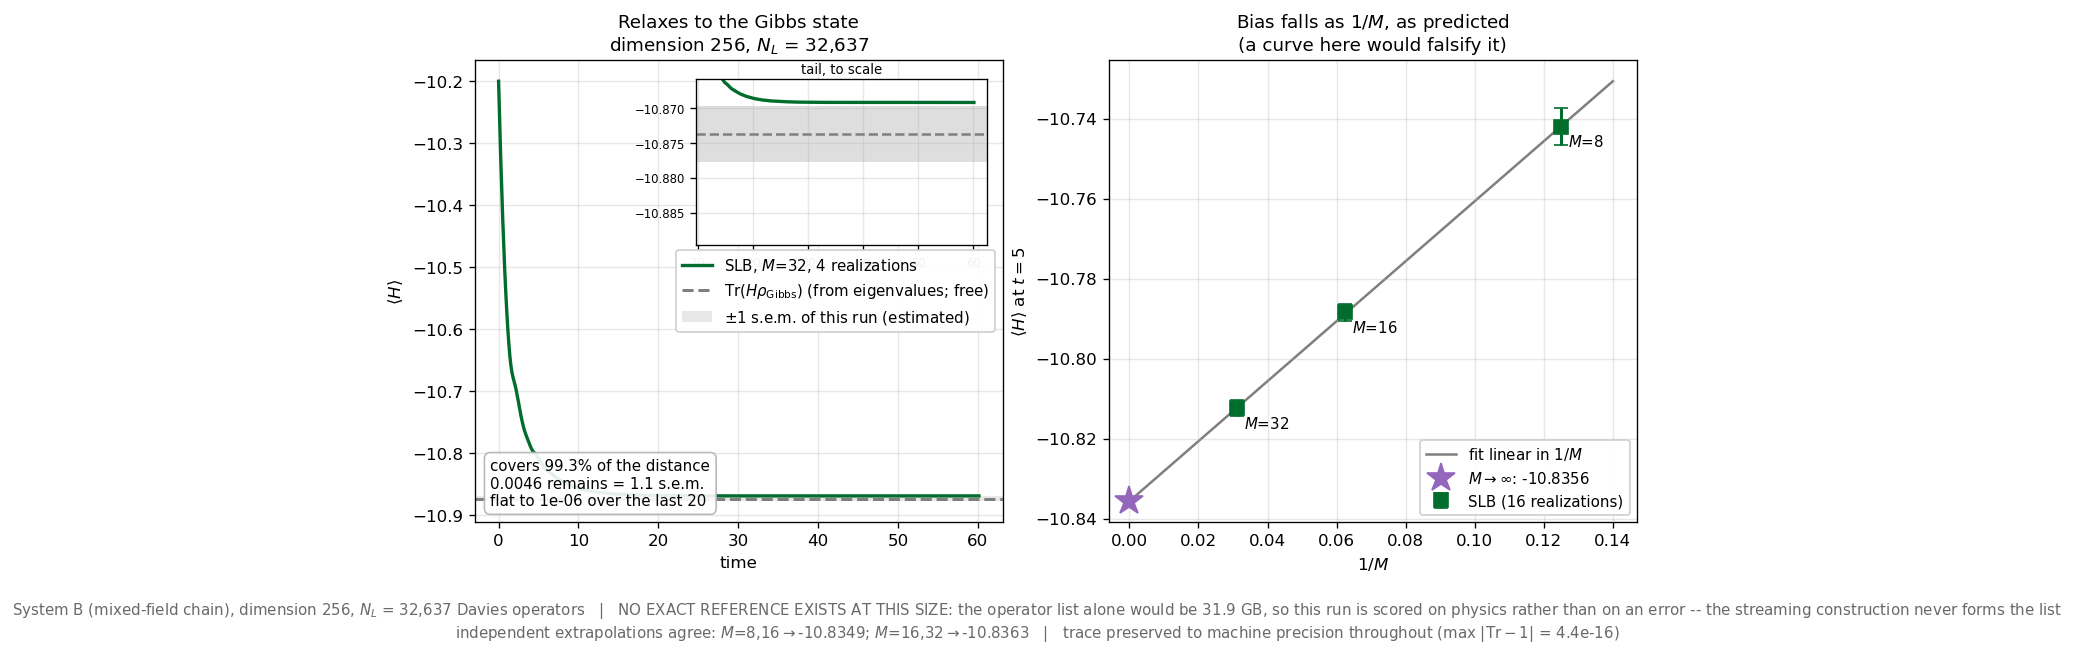
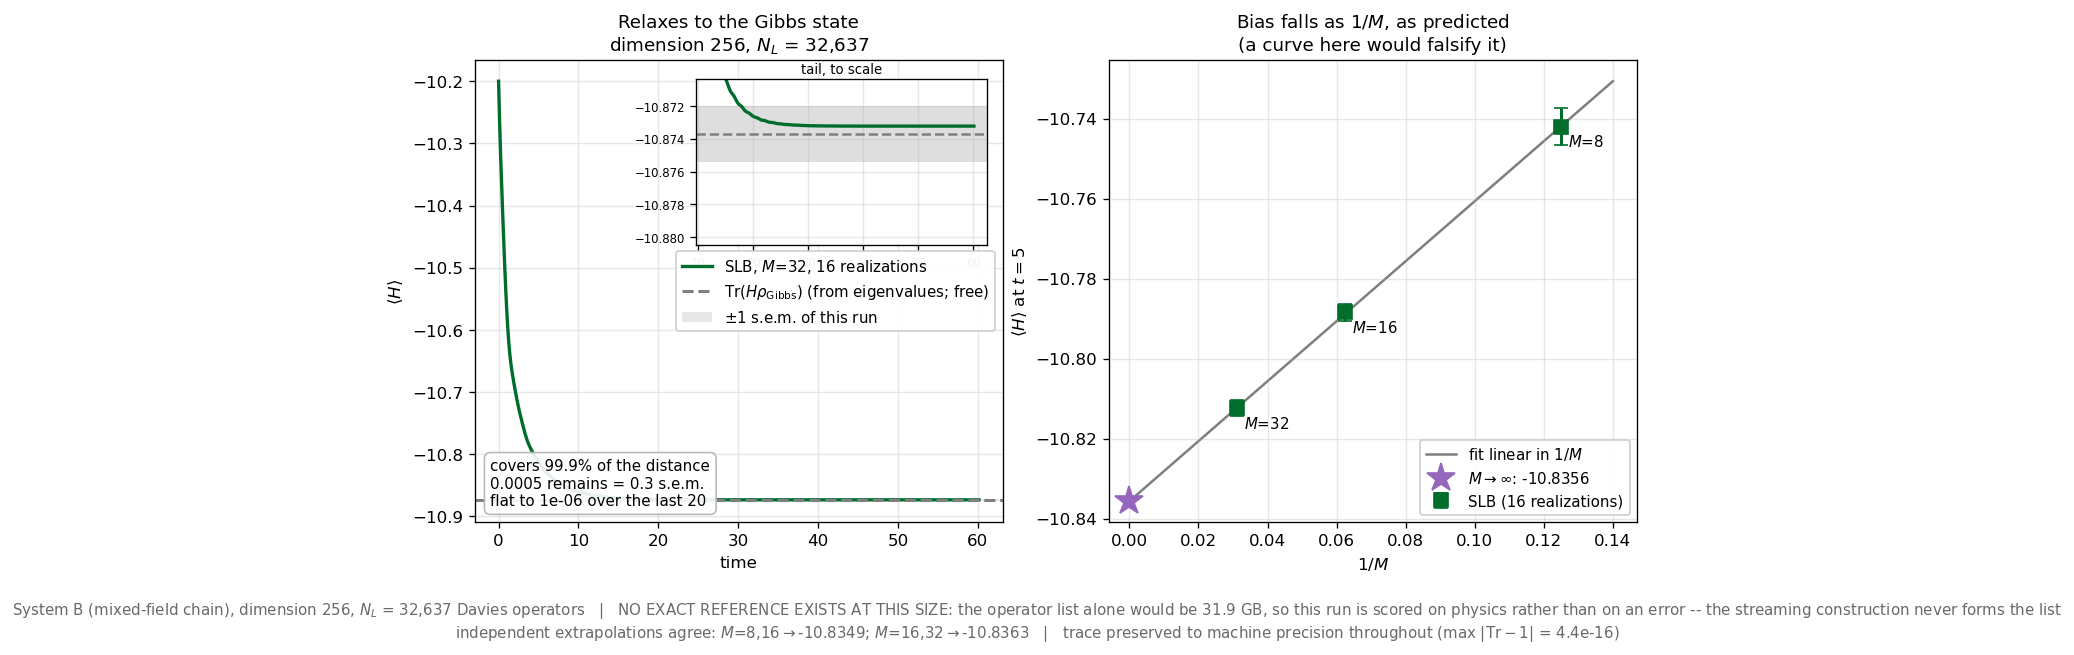
Result 5's thermal check at 16 realizations: the residual was noise
The dimension-256 thermal run previously ended 0.0046 short of the Gibbs value
at 1.1 of its own standard errors -- too close to call, and the weakest number
in the section. Rerun at 16 realizations instead of 4 (job 19592848, 5.3 h):

  ended       -10.8732   was -10.8692
  Gibbs       -10.8737
  remaining    0.0005    was 0.0046      = 0.29 s.e.m., was 1.1
  covered      99.9%     was 99.3%

The residual did not merely get a tighter bar around it. It SHRANK by a factor
of ten, so the earlier gap was mostly noise in a poorly-estimated mean rather
than bias. The s.e.m. is now measured on the thermal run itself (0.0017) rather
than rescaled from the sweep's t=5 error, which is what the previous commit
existed to make possible.

The section keeps the old number visible and says the outcome could have gone
the other way, because it could: at dimension 16 the same change turns a
residual inside the noise into a resolved 2.4 s.e.m. offset. Reporting only the
direction that flatters the method would make the check worthless.

This also lets one thing be stated that the earlier version could not. Bundling
bias is NOT expected to vanish in the stationary state -- the evolution is
nonlinear in the generator, so an unbiased estimator of the dissipator does not
give an unbiased stationary state, and there should be an O(1/M) offset here
too. So the result is written as a BOUND rather than a value: at M=32 the
[…]

diff --git a/benchmarks/BENCHMARKS.md b/benchmarks/BENCHMARKS.md
@@ -1722,28 +1722,43 @@ does.
 
 ```
 started at   -10.2000
-ended at     -10.8692
+ended at     -10.8732
 Gibbs        -10.8737     <- from eigenvalues alone
 ```
 
-It covered **99.3%** of the distance, and it has genuinely stopped: over the
-last 20 time units the curve is flat to $10^{-6}$, so the 0.0046 that remains is
+It covered **99.9%** of the distance, and it has genuinely stopped: over the
+last 20 time units the curve is flat to $10^{-6}$, so the 0.0005 that remains is
 a floor and not a curve still creeping toward the line.
 
-**What that residual does and does not settle.** The thermal run used 4
-realizations rather than the sweep's 16, which puts its own standard error at
-about 0.0040 — so the gap is **1.1 s.e.m.**, drawn to scale in the figure's
-inset. At that size the data cannot distinguish landing exactly on the Gibbs
-state from landing a little short of it, and this write-up does not claim the
-former. What it does exclude is a gross failure: a bundled generator that had
-lost detailed balance would not arrive within 0.7% of a number it was never
-given.
+**What that residual does and does not settle.** The thermal run's own standard
+error is $0.0017$, *measured* on its 16 realizations rather than inferred, so the
+gap is **0.29 s.e.m.** — drawn to scale in the figure's inset, where the curve
+sits inside the band. The residual is statistically indistinguishable from zero:
+having travelled $0.674$ in energy it stopped $0.0005$ short, which is $0.07\%$
+of the journey.
 
-One measured detail worth recording without explaining it: the long-time gap
-(0.0046) is five times *smaller* than the $M=32$ bias in the transient window
-(0.023 against the extrapolated −10.8356). Whatever bias survives into the
-stationary state is smaller than the bias on the way there. That is an
-observation from one system at one size, not a result.
+That still is not a proof of exactness, and no finite measurement could be. What
+it is, is a *bound*: any systematic offset in the stationary state is below one
+standard error, on a system of 32,637 collapse operators, at a dimension where no
+exact solve exists, against a reference that cost one eigendecomposition.
+
+**An earlier version of this section reported 0.0046 here, at 1.1 s.e.m., from a
+4-realization run.** Raising the realization count did not merely tighten the bar
+around that number — the number itself moved by a factor of ten. The gap was
+mostly noise in a poorly-estimated mean, not bias. It is recorded because the
+opposite outcome was equally possible and would have been reported the same way:
+at dimension 16 the same change turns a residual inside the noise into a resolved
+$2.4$ s.e.m. offset.
+
+**The stationary-state bias is at least 14x smaller than the transient one.**
+This is worth stating carefully, because bundling bias is *not* expected to
+vanish at long times: the evolution is nonlinear in the generator, so an unbiased
+estimator of the dissipator does not give an unbiased stationary state. There
+should be an $O(1/M)$ offset here too. At $M=32$ the transient bias is a resolved
+$0.0232$ (against the extrapolated $-10.8356$); at the same $M$ the stationary
+gap sits below $0.0017$. So the measurement bounds the long-time bias at roughly
+one fourteenth of the short-time one, rather than showing it to be zero. One
+system, one size, and an upper bound rather than a value.
 
 **Why System B and not System A.** System A has a $Z_2$ symmetry, hence extra
 conserved quantities, so it relaxes to a *symmetry-restricted* stationary state
@@ -1752,18 +1767,23 @@ rather than the global Gibbs state — measured at dimension 16 it settles at
 invalidate check 3 for reasons having nothing to do with bundling. System B has
 no such symmetry.
 
-**Cost.** 644.6 s, 1016.1 s and 1775.0 s for the three sweeps at 16 realizations
-each, plus 4098.1 s for the thermal run — about 2.1 hours total on one node with
-4 CPUs. Counting $N_L$ took 1.3 s and built no operators.
+**Cost.** 646.2 s, 1023.8 s and 1774.8 s for the three sweeps at 16
+realizations each, plus 15,581.8 s for the thermal run at 16 realizations —
+**5.3 hours** total on one node with 4 CPUs. Counting $N_L$ took 1.3 s and built
+no operators. The thermal stage is 82% of that bill, which is the price of the
+one check here that is independent of everything bundling does.
 
-**Provenance.** Slurm job 19592847 on landau42, partition `roibq`, 2026-08-17.
-Written by `run_extreme_dimension.py --size 8 --m-values 8 16 32`
-(`benchmarks/slurm_extreme256.sh`), plotted by `plot_extreme_dimension.py`.
+**Provenance.** Slurm job 19592848 on landau42, partition `roibq`, 2026-08-18.
+Written by `run_extreme_dimension.py --size 8 --m-values 8 16 32
+--thermal-realizations 16` (`benchmarks/slurm_extreme256.sh`), plotted by
+`plot_extreme_dimension.py`, which reads the measured s.e.m. from the data rather
+than rescaling the sweep's. The three sweep values reproduce job 19592847's to
+every digit at equal seed — an incidental confirmation that the run is
+deterministic across allocations.
 
-**Two caveats.** The thermal run's 4 realizations are thin, and a repeat at 16
-would tighten the 1.1 s.e.m. statement considerably. And nothing here is an
-*accuracy* measurement — Results 1–4 remain the only place error against a known
-answer is reported, precisely because they stop where a known answer stops.
+**One caveat.** Nothing here is an *accuracy* measurement. Results 1–4 remain the
+only place error against a known answer is reported, precisely because they stop
+where a known answer stops.
 
 ---
 
